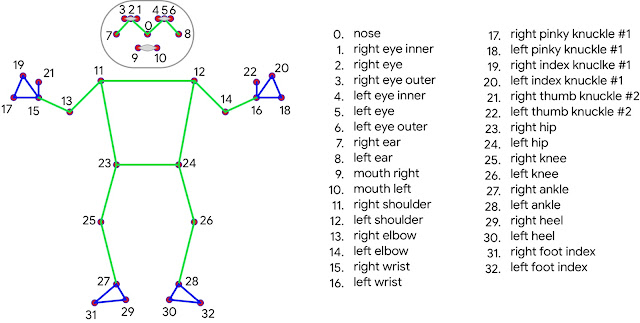
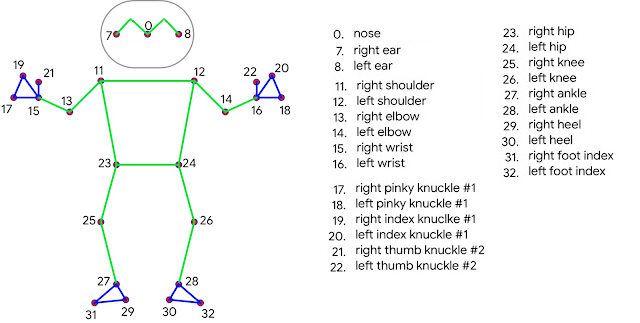
Remove Eyes and Mouth Parameters. Fix #5

Changed region(s): [[0.5, 0.0619, 1.0, 0.8978], [0.1875, 0.0, 0.2812, 0.0929], [0.1875, 0.1238, 0.2812, 0.1858]]

diff --git a/app.py b/app.py
@@ -57,8 +57,9 @@ async def main(camera_id, preview_enabled):
     print('Create parameters in VTube Studio')
 
     # Prepare parameter names for each body part
-    parameter_names = [body_part.name + '_' + angle for angle in ['X', 'Y', 'Z', 'VISIBILITY'] for body_part in BodyParts]
+    parameter_names = get_parameters_names()
 
+    # Maximum of 100 parameters allowed to be created in VTube Studio per plugin
     for parameter_name in parameter_names:
         # Add custom parameters in VTube Studio
         send_request_new_parameter = vts.vts_request.requestCustomParameter(parameter_name, min=-10, max=10)
@@ -113,17 +114,22 @@ async def main(camera_id, preview_enabled):
                         await vts.request(send_request_parameter)
 
 
+def get_parameters_names():
+    parameters_names = [body_part.name + '_' + angle for body_part in BodyParts for angle in ['X', 'Y', 'Z', 'VISIBILITY']]
+    return parameters_names
+
+
 def get_bodyparts_values(parameters):
     i = 0
     values = {}
     # Go through each tracked body part
-    for part in parameters:
+    for bodypart in BodyParts:
         # Find center for this part of the body
-        part_name = get_part_from_name(i)
-        part_center = BodyCenters[part_name.name]
-        center = parameters[part_center.value.value]
+        bodypart_center_name = BodyCenters[bodypart.name]
+        bodypart_center = parameters[bodypart_center_name.value.value]
+        bodypart_values = parameters[bodypart.value]
         # Calculate values from new center
-        data = calcul_data(part, center, part_name.name)
+        data = calcul_data(bodypart_values, bodypart_center, bodypart.name)
         values.update(data)
         i += 1
     return values

diff --git a/utils_mediapipe.py b/utils_mediapipe.py
@@ -12,16 +12,16 @@ class BodyParts(Enum):
     """
 
     NOSE = 0
-    LEFT_EYE_INNER = 1
-    LEFT_EYE = 2
-    LEFT_EYE_OUTER = 3
-    RIGHT_EYE_INNER = 4
-    RIGHT_EYE = 5
-    RIGHT_EYE_OUTER = 6
+    # LEFT_EYE_INNER = 1
+    # LEFT_EYE = 2
+    # LEFT_EYE_OUTER = 3
+    # RIGHT_EYE_INNER = 4
+    # RIGHT_EYE = 5
+    # RIGHT_EYE_OUTER = 6
     LEFT_EAR = 7
     RIGHT_EAR = 8
-    MOUTH_LEFT = 9
-    MOUTH_RIGHT = 10
+    # MOUTH_LEFT = 9
+    # MOUTH_RIGHT = 10
     LEFT_SHOULDER = 11
     RIGHT_SHOULDER = 12
     LEFT_ELBOW = 13
@@ -52,16 +52,16 @@ class BodyCenters(Enum):
     """
 
     NOSE = BodyParts.RIGHT_HIP
-    LEFT_EYE_INNER = BodyParts.LEFT_EYE
-    LEFT_EYE = BodyParts.RIGHT_HIP
-    LEFT_EYE_OUTER = BodyParts.RIGHT_HIP
-    RIGHT_EYE_INNER = BodyParts.RIGHT_HIP
-    RIGHT_EYE = BodyParts.RIGHT_HIP
-    RIGHT_EYE_OUTER = BodyParts.RIGHT_HIP
+    # LEFT_EYE_INNER = BodyParts.LEFT_EYE
+    # LEFT_EYE = BodyParts.RIGHT_HIP
+    # LEFT_EYE_OUTER = BodyParts.RIGHT_HIP
+    # RIGHT_EYE_INNER = BodyParts.RIGHT_HIP
+    # RIGHT_EYE = BodyParts.RIGHT_HIP
+    # RIGHT_EYE_OUTER = BodyParts.RIGHT_HIP
     LEFT_EAR = BodyParts.RIGHT_HIP
     RIGHT_EAR = BodyParts.RIGHT_HIP
-    MOUTH_LEFT = BodyParts.RIGHT_HIP
-    MOUTH_RIGHT = BodyParts.RIGHT_HIP
+    # MOUTH_LEFT = BodyParts.RIGHT_HIP
+    # MOUTH_RIGHT = BodyParts.RIGHT_HIP
 
     LEFT_SHOULDER = BodyParts.RIGHT_HIP
     RIGHT_SHOULDER = BodyParts.RIGHT_HIP

diff --git a/README.md b/README.md
@@ -1,5 +1,5 @@
 # VTS FULLBODY TRACKING
-_Version ALPHA 0.1.0_
+_Version ALPHA 0.1.1_
 
 This plugin integrates full body tracking functionality using Mediapipe. 
 It allows users to use tracked body parameters as inputs to control your Live2D model in [VTube Studio](https://denchisoft.com/). 
@@ -9,7 +9,7 @@ It allows users to use tracked body parameters as inputs to control your Live2D 
 ## THIS PLUGIN IS UNDER DEVELOPMENT
 
 This plugin may contain bugs and lack certain features.<br/>
-Join [Discord Server](https://discord.gg/vzWSQZ9bsE) for discuss about the plugin.
+Join [Discord Server](https://discord.gg/9K9gejWQ3s) for discuss about the plugin.
 
 ### How you can Help
 
@@ -61,8 +61,6 @@ Press `q` or `ESC` in the Tracking Preview window to stop the plugin.
 
 ## Custom Parameters
 ![List Bodyparts MediaPipe](readme_img/list_bodyparts.png)<br/>
-*BlazePose 33 keypoint topology as COCO (colored with green) superset*<br/>
-https://blog.research.google/2020/08/on-device-real-time-body-pose-tracking.html
 
 This plugin will create new parameters in Vtube Studio, for each body part a parameter `_X`, `_Y`, `_Z` and `_VISIBILITY` will be available in your Vtube Studio.
 
@@ -90,10 +88,6 @@ This plugin will create new parameters in Vtube Studio, for each body part a par
 |-------------------|--------------------------------------------------------------------------------------------------------------------------------------------------------------------------------|
 | **Nose**          | `NOSE_X` `NOSE_Y` `NOSE_Z` `NOSE_VISIBILITY`                                                                                                                                   |
 | **Ears**          | `LEFT_EAR_X` `LEFT_EAR_Y` `LEFT_EAR_Z` `LEFT_EAR_VISIBILITY` `RIGHT_EAR_X` `RIGHT_EAR_Y` `RIGHT_EAR_Z` `RIGHT_EAR_VISIBILITY`                                                  |
-| **Eyes**          | `LEFT_EYE_X` `LEFT_EYE_Y` `LEFT_EYE_Z` `LEFT_EYE_VISIBILITY` `RIGHT_EYE_X` `RIGHT_EYE_Y` `RIGHT_EYE_Z` `RIGHT_EYE_VISIBILITY`                                                  |
-| **Inner Eyes**    | `LEFT_EYE_INNER_X` `LEFT_EYE_INNER_Y` `LEFT_EYE_INNER_Z` `LEFT_EYE_INNER_VISIBILITY` `RIGHT_EYE_INNER_X` `RIGHT_EYE_INNER_Y` `RIGHT_EYE_INNER_Z` `RIGHT_EYE_INNER_VISIBILITY`  |
-| **Outer Eyes**    | `LEFT_EYE_OUTER_X` `LEFT_EYE_OUTER_Y` `LEFT_EYE_OUTER_Z` `LEFT_IEYE_OUTER_VISIBILITY` `RIGHT_EYE_OUTER_X` `RIGHT_EYE_OUTER_Y` `RIGHT_EYE_OUTER_Z` `RIGHT_EYE_OUTER_VISIBILITY` |
-| **Mouth Corners** | `LEFT_MOUTH_X` `LEFT_MOUTH_Y` `LEFT_MOUTH_VISIBILITY` `LEFT_MOUTH_Z` `RIGHT_MOUTH_X` `RIGHT_MOUTH_Y` `RIGHT_MOUTH_Z` `RIGHT_MOUTH_VISIBILITY`                                  |
 
 ### Hands
 
@@ -131,15 +125,16 @@ python app.py
 ### Build executable
 
 ```shell
- pyinstaller --name VTS_Fullbody_Tracking-0.1.0 --add-data='models/*:models' -F -w .\app.py
+ pyinstaller --name VTS_Fullbody_Tracking-0.1.1 --add-data='models/*:models' -F -w .\app.py
 ```
 
 ## Documentations
 
 #### Mediapipe
-Available Pose Landmarker models: 
-https://developers.google.com/mediapipe/solutions/vision/pose_landmarker/index#models<br/>
-mediapipe documentation - landmarker python: https://developers.google.com/mediapipe/solutions/vision/pose_landmarker/python
+mediapipe documentation -[Available Pose Landmarker models](https://developers.google.com/mediapipe/solutions/vision/pose_landmarker/index#models)<br/>
+mediapipe documentation - [landmarker python](https://developers.google.com/mediapipe/solutions/vision/pose_landmarker/python)<br/>
+Blog Research Google - [On-device, Real-time Body Pose Tracking with MediaPipe BlazePose](https://blog.research.google/2020/08/on-device-real-time-body-pose-tracking.html)
+
 
 #### VTube Studio
 
